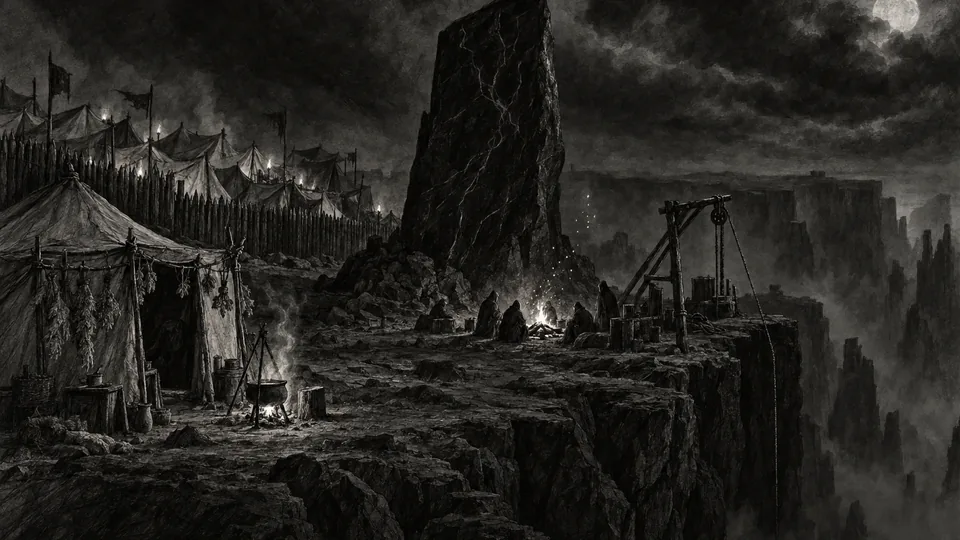
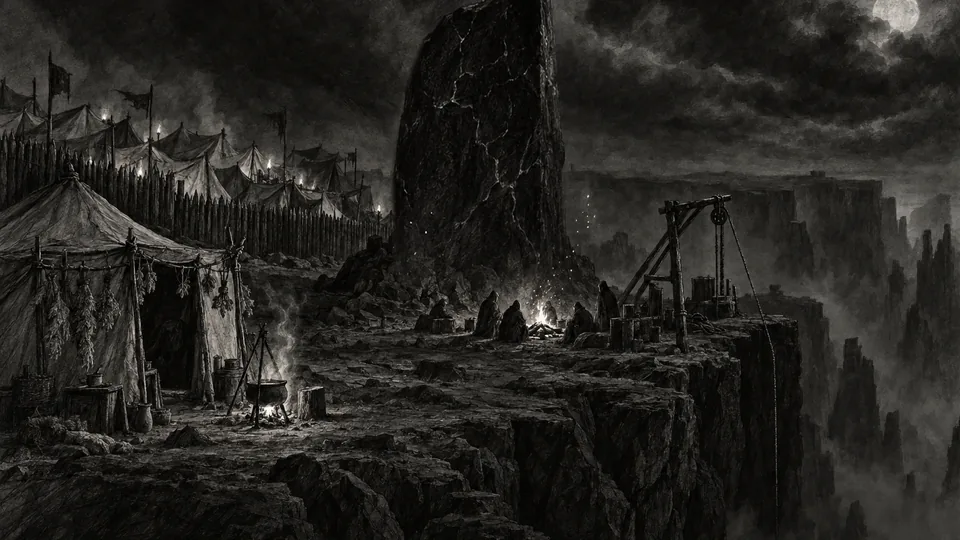
Lagerbilder: einheitlicher Monolith
Claude-Session: https://claude.ai/code/session_011EEWvRSeQeUrKHaWh94RcN

diff --git a/index.html b/index.html
@@ -1096,7 +1096,7 @@ ${glow(180,K.y+6,boss?80:big?60:44,boss?46:big?34:26,big?"#c0352a":c,big?.3:.12)
 ${boss?`<g class="spin" style="transform-origin:180px ${K.y}px"><circle cx="180" cy="${K.y}" r="34" fill="none" stroke="#c0352a" stroke-width=".7" stroke-dasharray="2 6" opacity=".7"/><circle cx="180" cy="${K.y}" r="44" fill="none" stroke="#c0352a" stroke-width=".4" opacity=".35"/></g>`:''}
 <g class="foe-eyes blink ${k==='wing'?'hover':'breathe-e'}">${eye(180-K.gap)}${eye(180+K.gap)}${extra.map(eye).join('')}</g>
 ${particles(PART[ai],10,c,31+ai)}`)}
-const IMG={"l1":{"g":[[41.7,51,5,"o","fl"]],"m":[85.3,5.2,3],"st":[49.5,25],"fog":1},"l2":{"g":[[56,58,5,"o","fl"],[28,53,3,"o","fl"]],"m":[96.4,1.8,3],"st":[52,25],"fog":1},"l3":{"g":[[36.5,54,4.5,"o","fl"],[11.4,53,3,"o","fl"],[66.3,16,1.6,"y","fl"]],"m":[88.2,7,3],"st":[45,28],"fog":1},"l4":{"g":[[34.5,75,4.5,"o","fl"],[39.6,47,1.6,"y","fl"],[54.7,47,1.6,"y","fl"],[77.8,30,1.6,"y","fl"]],"m":[93,4.6,3],"st":[47,17],"fog":1},"h2":{"g":[[27.5,16,3.2,"y","fl"]],"p":"dust"},"h3":{"g":[[20,88,10,"o","fl2"],[8,45,8,"o","slow"]],"p":"embers"},"h4":{"g":[[88.9,64.5,3,"y","fl"]],"p":"snow"},"h5":{"g":[[56.5,8,4,"y","fl"]]},"r2":{"g":[[56.6,64,5,"o","fl"]],"p":"dust"},"r3":{"g":[[58.6,74,7,"o","fl2"]],"p":"embers"},"r4":{"g":[[58.6,66,5,"o","fl"]],"p":"snow"},"r5":{"g":[[50.8,51,3.5,"o","fl"]]},"x11":{"p":"dust"},"v6":{"e":[],"c":"o","g":[[11,26,4,"o","fl2"],[28,42,4,"o","fl2"],[90,30,4,"o","fl2"]]},"v1":{"e":[],"c":"y"},"v2":{"e":[],"c":"o","g":[[18,58,6,"o","fl2"],[82,58,6,"o","fl2"]]},"v3":{"e":[],"c":"o","p":"embers"},"v4":{"e":[],"c":"b","p":"snow"},"v5":{"e":[],"c":"v"},"v7":{"e":[],"c":"b"},"v8":{"e":[],"c":"o","p":"embers"},"v9":{"e":[],"c":"b","p":"snow"},"v10":{"e":[],"c":"y","g":[[51,79,3,"y","fl2"]]},"q1":{"e":[],"c":"y","g":[[46,80,6,"y","slow"]],"p":"dust"},"q2":{"e":[],"c":"o","p":"embers"},"q3":{"e":[],"c":"y","g":[[31,93,5,"o","fl2"]]},"x6":{"e":[],"c":"y","g":[[42,73,10,"o","fl2"]]},"x7":{"e":[],"c":"y","p":"dust"},"x8":{"e":[],"c":"v","g":[[58,15,4,"v","pulse"]]},"x9":{"e":[],"c":"y","p":"dust"},"x10":{"e":[],"c":"y"},"x5":{"e":[],"c":"y","g":[[58,12,10,"y","slow"]],"p":"dust"},"e10":{"e":[],"c":"y","g":[[73,50,6,"o","fl2"]]},"e12":{"e":[],"c":"y"},"e9":{"e":[],"c":"y"},"e11":{"e":[],"c":"o","g":[[70,80,9,"o","fl2"]]},"e13":{"e":[],"c":"y"},"g15":{"e":[[49.7,20.1,1.3],[58.0,22.5,1.3]],"c":"y"},"g16":{"e":[[50.0,24.2,1.0],[56.7,24.2,1.0]],"c":"y","g":[[50,4,6,"o","fl2"]]},"g17":{"e":[[45.7,25.4,1.3],[51.9,28.1,1.3]],"c":"o","p":"embers"},"g18":{"e":[],"c":"b","p":"snow"},"g19":{"e":[[38.9,31.8,1.0],[46.3,31.5,1.0]],"c":"b"},"g20":{"e":[[50.4,6.1,0.9],[56.8,6.1,0.9]],"c":"o","p":"embers"},"g21":{"e":[[55.1,25.5,1.0],[60.5,25.3,1.0]],"c":"b","p":"snow"},"g22":{"e":[],"c":"b","p":"snow"},"g23":{"e":[[47.7,2.4,0.6],[49.0,2.4,0.6]],"c":"b"},"g24":{"e":[],"c":"b"},"g25":{"e":[[53.6,13.3,1.1],[58.6,13.1,1.1]],"c":"b"},"e1":{"e":[],"c":"r"},"e2":{"e":[],"c":"b","g":[[50,68,18,"b","slow"]]},"e3":{"e":[],"c":"y"},"e4":{"e":[],"c":"y"},"e5":{"e":[],"c":"o","g":[[22,77,5,"o","fl2"]]},"e6":{"e":[],"c":"b","g":[[44,45,14,"b","slow"]]},"e7":{"e":[],"c":"y"},"e8":{"e":[],"c":"y"},"g1":{"e":[[49.8,12.5,1.4],[43.7,15.3,1.4]],"c":"y"},"g2":{"e":[[47.3,0.5,0.8],[49.3,0.8,0.8]],"c":"b"},"g3":{"e":[[51.3,18.8,0.9],[45.5,20.4,1.1]],"c":"y"},"g4":{"e":[[47.6,1.9,0.8],[49.5,1.8,0.8]],"c":"p"},"g5":{"e":[[58.4,40.5,0.8],[67.7,40.8,0.8]],"c":"y"},"g6":{"e":[[51.0,6.9,1.1],[49.2,7.1,1.1]],"c":"o","g":[[50,45,25,"o","slow"]]},"g7":{"e":[[47.8,4.9,0.6],[49.9,4.9,0.6]],"c":"b"},"g8":{"e":[[45.5,29.7,0.8],[53.9,30.0,0.8]],"c":"r"},"g9":{"e":[[44.1,9.8,1.9],[60.5,9.9,1.9],[50.5,21.4,4.8],[35.9,23.1,1.9],[65.0,30.1,4.8],[39.2,33.0,1.1],[53.0,36.4,1.9],[67.0,40.4,1.4],[60.3,46.1,2.0],[77.7,59.1,4.8],[55.7,72.8,1.4]],"c":"g"},"g10":{"e":[[45.3,47.2,1.4],[52.7,48.1,1.4]],"c":"y"},"g11":{"e":[[46.3,31.6,1.6],[56.4,33.8,1.6]],"c":"y"},"g12":{"e":[[50.0,0.1,1.2],[52.6,1.0,1.2]],"c":"o"},"b1":{"e":[[50.5,10.4,1.2],[46.7,12.2,1.4]],"c":"y"},"b2":{"e":[[52.2,7.0,1.2],[49.4,7.4,1.2]],"c":"b"},"b3":{"e":[[51.5,2.8,1.4],[48.4,3.2,1.2]],"c":"o","g":[[52,40,25,"o","fl2"]],"p":"embers"},"b4":{"e":[[52.0,3.9,1.6],[49.2,4.2,1.4]],"c":"b","p":"snow"},"b5":{"e":[[52.0,8.5,1.2],[54.2,9.3,1.2],[47.0,9.6,1.2],[48.4,11.2,1.2],[50.0,11.6,1.4],[46.3,13.2,1.2],[54.0,15.1,1.2],[51.1,15.6,1.4],[47.9,17.7,1.2],[51.8,18.0,1.4],[53.9,18.6,1.2],[49.8,21.2,1.2],[46.4,21.4,1.2],[52.3,21.6,1.4],[48.3,22.6,1.2],[53.9,22.9,1.2],[49.0,26.6,1.2],[51.9,28.2,1.2],[53.0,32.1,1.2],[49.4,32.3,1.2],[48.3,35.4,1.2],[51.1,37.1,1.2],[54.8,37.5,1.2],[43.9,38.3,1.2],[48.7,40.7,1.2],[51.1,43.6,1.2],[55.2,44.0,1.2],[45.7,46.5,1.2],[49.6,47.1,1.2],[55.3,48.7,1.2],[51.2,49.4,1.2],[43.0,49.5,1.2],[51.1,53.2,1.4],[56.7,54.2,1.4],[43.9,57.0,1.2],[52.7,59.2,1.2],[48.0,59.5,1.2],[45.9,61.7,1.2],[54.4,65.4,1.2],[44.9,66.0,1.2],[59.1,69.8,1.2],[56.1,71.7,2.2],[39.9,71.8,1.2],[45.1,72.6,1.2],[48.1,72.8,1.2],[50.2,75.0,2.5],[41.6,77.6,1.2],[44.2,78.1,1.2],[46.9,80.5,1.2],[42.7,82.1,1.2],[38.1,82.8,1.1],[52.4,82.9,1.2],[43.9,88.3,1.4],[33.7,89.8,1.2],[55.2,90.7,1.2],[37.4,91.5,1.2],[61.4,95.7,2.5],[57.6,97.2,2.5]],"c":"v"},"t1":{"e":[[53.3,1.0,1.2],[50.4,1.2,1.2]],"c":"y"},"t2":{"e":[[47.0,1.9,1.2],[49.3,2.1,1.2]],"c":"b"},"t3":{"e":[[50.3,12.6,2.0],[43.5,13.6,2.2]],"c":"o","g":[[48,45,22,"o","fl2"]],"p":"embers"},"t4":{"e":[[50.1,12.9,1.6],[48.2,13.1,1.6]],"c":"b","p":"snow"},"t5":{"e":[[50.5,4.0,0.5],[49.0,4.0,0.6]],"c":"v"},"k1":{"e":[[53.7,38.0,1.2],[63.8,38.4,1.2]],"c":"y"},"k2":{"e":[[54.8,7.8,1.4],[60.6,10.9,1.2],[48.9,11.4,1.4],[41.7,12.7,1.2],[44.4,15.9,1.2],[41.3,21.9,1.2],[46.3,22.6,1.2],[64.9,24.9,1.2],[26.5,27.2,1.2],[68.5,30.2,1.2],[76.0,32.6,1.2],[28.5,36.8,1.2],[45.5,37.7,1.4],[20.7,39.3,1.2],[68.3,42.6,1.2],[75.4,43.8,1.2],[81.6,49.0,1.2],[15.7,52.6,1.2],[48.5,55.7,1.2],[27.2,56.3,2.0],[84.3,58.4,1.2],[69.3,59.7,1.4],[44.9,67.7,1.2],[13.2,68.6,1.4],[92.5,69.4,1.2],[21.0,72.8,1.4],[75.8,74.5,1.2],[62.6,80.2,1.2],[19.7,82.8,1.4],[42.0,82.7,1.2]],"c":"g"},"k3":{"e":[[49.7,1.5,1.4],[52.2,1.5,1.4]],"c":"b"},"k4":{"e":[],"c":"p"},"k5":{"e":[[50.6,2.8,1.4],[47.9,3.5,1.4]],"c":"o","g":[[30,55,20,"o","fl2"]],"p":"embers"},"k6":{"e":[[48.2,2.8,1.4],[51.2,2.7,1.2]],"c":"o","g":[[49.5,19,8,"o","fl2"],[50,88,40,"o","fl2"]],"p":"embers"},"k7":{"e":[[43.9,36.6,1.4],[51.3,36.7,1.4]],"c":"b","p":"snow"},"k8":{"e":[[49.0,6.7,1.4],[50.7,6.6,1.4]],"c":"b","p":"snow"},"k9":{"e":[[48.9,2.1,1.2],[50.8,3.3,1.2]],"c":"p"},"k10":{"e":[[51.0,0.2,1.2]],"c":"v"},"o1":{"g":[[28.6,56,7,"o","fl"],[43,30,10,"v","pulse"],[69,8,4.5,"p","slow"]],"m":[68.9,7.8,3.3],"fog":1},"o2":{"g":[[84.6,11,6,"o","fl"],[60,80,15,"p","slow"]],"p":"dust"},"o3":{"g":[[25,80,6,"o","fl"],[81,90,6,"o","fl"],[35,64,4,"o","fl"],[66,70,4,"o","fl"],[50,46,4,"o","fl"]],"p":"dust"},"o4":{"g":[[62,80,18,"o","fl2"],[60,50,12,"o","fl2"],[15,46,4,"o","fl"],[88,30,4,"o","fl"]],"p":"embers"},"o5":{"g":[[45,45,30,"b","slow"]],"p":"snow","fog":1},"o6":{"g":[[70,22,4,"r","eye"]],"p":"dust"},"o7":{"g":[[18,12,6,"o","fl"],[79.5,12,6,"o","fl"],[49.8,56,4,"r","eye"]],"p":"dust"},"o8":{"g":[[51.4,66,9,"o","fl"]]},"o9":{"g":[[60.4,16,6,"o","fl"]],"p":"dust"},"x1":{"s":[[30.4,50.5,1.6],[29.6,55,1.1]]},"x2":{"g":[[83,47,12,"o","fl"],[40,76,10,"o","fl"]]},"x3":{"g":[[50,47,10,"v","pulse"]],"p":"dust"},"x4":{"g":[[17.6,44.5,5,"o","fl"]]},"g14":{"e":[[54.2,52,1.6],[66.3,52,1.6]],"c":"o","g":[[45,35,30,"o","fl2"]],"p":"embers"},"g13":{"e":[[59.8,37.2,1.3],[68.6,37.5,1.3]],"c":"y"}};
+const IMG={"l1":{"g":[[41.7,51,5,"o","fl"]],"m":[85.3,5.2,3],"st":[49.5,25],"fog":1},"l2":{"g":[[56,58,5,"o","fl"],[28,53,3,"o","fl"]],"m":[96.4,1.8,3],"st":[50,24.5],"fog":1},"l3":{"g":[[36.5,54,4.5,"o","fl"],[11.4,53,3,"o","fl"],[66.3,16,1.6,"y","fl"]],"m":[88.2,7,3],"st":[45,23],"fog":1},"l4":{"g":[[34.5,75,4.5,"o","fl"],[39.6,47,1.6,"y","fl"],[54.7,47,1.6,"y","fl"],[77.8,30,1.6,"y","fl"]],"m":[93,4.6,3],"st":[50.3,15],"fog":1},"h2":{"g":[[27.5,16,3.2,"y","fl"]],"p":"dust"},"h3":{"g":[[20,88,10,"o","fl2"],[8,45,8,"o","slow"]],"p":"embers"},"h4":{"g":[[88.9,64.5,3,"y","fl"]],"p":"snow"},"h5":{"g":[[56.5,8,4,"y","fl"]]},"r2":{"g":[[56.6,64,5,"o","fl"]],"p":"dust"},"r3":{"g":[[58.6,74,7,"o","fl2"]],"p":"embers"},"r4":{"g":[[58.6,66,5,"o","fl"]],"p":"snow"},"r5":{"g":[[50.8,51,3.5,"o","fl"]]},"x11":{"p":"dust"},"v6":{"e":[],"c":"o","g":[[11,26,4,"o","fl2"],[28,42,4,"o","fl2"],[90,30,4,"o","fl2"]]},"v1":{"e":[],"c":"y"},"v2":{"e":[],"c":"o","g":[[18,58,6,"o","fl2"],[82,58,6,"o","fl2"]]},"v3":{"e":[],"c":"o","p":"embers"},"v4":{"e":[],"c":"b","p":"snow"},"v5":{"e":[],"c":"v"},"v7":{"e":[],"c":"b"},"v8":{"e":[],"c":"o","p":"embers"},"v9":{"e":[],"c":"b","p":"snow"},"v10":{"e":[],"c":"y","g":[[51,79,3,"y","fl2"]]},"q1":{"e":[],"c":"y","g":[[46,80,6,"y","slow"]],"p":"dust"},"q2":{"e":[],"c":"o","p":"embers"},"q3":{"e":[],"c":"y","g":[[31,93,5,"o","fl2"]]},"x6":{"e":[],"c":"y","g":[[42,73,10,"o","fl2"]]},"x7":{"e":[],"c":"y","p":"dust"},"x8":{"e":[],"c":"v","g":[[58,15,4,"v","pulse"]]},"x9":{"e":[],"c":"y","p":"dust"},"x10":{"e":[],"c":"y"},"x5":{"e":[],"c":"y","g":[[58,12,10,"y","slow"]],"p":"dust"},"e10":{"e":[],"c":"y","g":[[73,50,6,"o","fl2"]]},"e12":{"e":[],"c":"y"},"e9":{"e":[],"c":"y"},"e11":{"e":[],"c":"o","g":[[70,80,9,"o","fl2"]]},"e13":{"e":[],"c":"y"},"g15":{"e":[[49.7,20.1,1.3],[58.0,22.5,1.3]],"c":"y"},"g16":{"e":[[50.0,24.2,1.0],[56.7,24.2,1.0]],"c":"y","g":[[50,4,6,"o","fl2"]]},"g17":{"e":[[45.7,25.4,1.3],[51.9,28.1,1.3]],"c":"o","p":"embers"},"g18":{"e":[],"c":"b","p":"snow"},"g19":{"e":[[38.9,31.8,1.0],[46.3,31.5,1.0]],"c":"b"},"g20":{"e":[[50.4,6.1,0.9],[56.8,6.1,0.9]],"c":"o","p":"embers"},"g21":{"e":[[55.1,25.5,1.0],[60.5,25.3,1.0]],"c":"b","p":"snow"},"g22":{"e":[],"c":"b","p":"snow"},"g23":{"e":[[47.7,2.4,0.6],[49.0,2.4,0.6]],"c":"b"},"g24":{"e":[],"c":"b"},"g25":{"e":[[53.6,13.3,1.1],[58.6,13.1,1.1]],"c":"b"},"e1":{"e":[],"c":"r"},"e2":{"e":[],"c":"b","g":[[50,68,18,"b","slow"]]},"e3":{"e":[],"c":"y"},"e4":{"e":[],"c":"y"},"e5":{"e":[],"c":"o","g":[[22,77,5,"o","fl2"]]},"e6":{"e":[],"c":"b","g":[[44,45,14,"b","slow"]]},"e7":{"e":[],"c":"y"},"e8":{"e":[],"c":"y"},"g1":{"e":[[49.8,12.5,1.4],[43.7,15.3,1.4]],"c":"y"},"g2":{"e":[[47.3,0.5,0.8],[49.3,0.8,0.8]],"c":"b"},"g3":{"e":[[51.3,18.8,0.9],[45.5,20.4,1.1]],"c":"y"},"g4":{"e":[[47.6,1.9,0.8],[49.5,1.8,0.8]],"c":"p"},"g5":{"e":[[58.4,40.5,0.8],[67.7,40.8,0.8]],"c":"y"},"g6":{"e":[[51.0,6.9,1.1],[49.2,7.1,1.1]],"c":"o","g":[[50,45,25,"o","slow"]]},"g7":{"e":[[47.8,4.9,0.6],[49.9,4.9,0.6]],"c":"b"},"g8":{"e":[[45.5,29.7,0.8],[53.9,30.0,0.8]],"c":"r"},"g9":{"e":[[44.1,9.8,1.9],[60.5,9.9,1.9],[50.5,21.4,4.8],[35.9,23.1,1.9],[65.0,30.1,4.8],[39.2,33.0,1.1],[53.0,36.4,1.9],[67.0,40.4,1.4],[60.3,46.1,2.0],[77.7,59.1,4.8],[55.7,72.8,1.4]],"c":"g"},"g10":{"e":[[45.3,47.2,1.4],[52.7,48.1,1.4]],"c":"y"},"g11":{"e":[[46.3,31.6,1.6],[56.4,33.8,1.6]],"c":"y"},"g12":{"e":[[50.0,0.1,1.2],[52.6,1.0,1.2]],"c":"o"},"b1":{"e":[[50.5,10.4,1.2],[46.7,12.2,1.4]],"c":"y"},"b2":{"e":[[52.2,7.0,1.2],[49.4,7.4,1.2]],"c":"b"},"b3":{"e":[[51.5,2.8,1.4],[48.4,3.2,1.2]],"c":"o","g":[[52,40,25,"o","fl2"]],"p":"embers"},"b4":{"e":[[52.0,3.9,1.6],[49.2,4.2,1.4]],"c":"b","p":"snow"},"b5":{"e":[[52.0,8.5,1.2],[54.2,9.3,1.2],[47.0,9.6,1.2],[48.4,11.2,1.2],[50.0,11.6,1.4],[46.3,13.2,1.2],[54.0,15.1,1.2],[51.1,15.6,1.4],[47.9,17.7,1.2],[51.8,18.0,1.4],[53.9,18.6,1.2],[49.8,21.2,1.2],[46.4,21.4,1.2],[52.3,21.6,1.4],[48.3,22.6,1.2],[53.9,22.9,1.2],[49.0,26.6,1.2],[51.9,28.2,1.2],[53.0,32.1,1.2],[49.4,32.3,1.2],[48.3,35.4,1.2],[51.1,37.1,1.2],[54.8,37.5,1.2],[43.9,38.3,1.2],[48.7,40.7,1.2],[51.1,43.6,1.2],[55.2,44.0,1.2],[45.7,46.5,1.2],[49.6,47.1,1.2],[55.3,48.7,1.2],[51.2,49.4,1.2],[43.0,49.5,1.2],[51.1,53.2,1.4],[56.7,54.2,1.4],[43.9,57.0,1.2],[52.7,59.2,1.2],[48.0,59.5,1.2],[45.9,61.7,1.2],[54.4,65.4,1.2],[44.9,66.0,1.2],[59.1,69.8,1.2],[56.1,71.7,2.2],[39.9,71.8,1.2],[45.1,72.6,1.2],[48.1,72.8,1.2],[50.2,75.0,2.5],[41.6,77.6,1.2],[44.2,78.1,1.2],[46.9,80.5,1.2],[42.7,82.1,1.2],[38.1,82.8,1.1],[52.4,82.9,1.2],[43.9,88.3,1.4],[33.7,89.8,1.2],[55.2,90.7,1.2],[37.4,91.5,1.2],[61.4,95.7,2.5],[57.6,97.2,2.5]],"c":"v"},"t1":{"e":[[53.3,1.0,1.2],[50.4,1.2,1.2]],"c":"y"},"t2":{"e":[[47.0,1.9,1.2],[49.3,2.1,1.2]],"c":"b"},"t3":{"e":[[50.3,12.6,2.0],[43.5,13.6,2.2]],"c":"o","g":[[48,45,22,"o","fl2"]],"p":"embers"},"t4":{"e":[[50.1,12.9,1.6],[48.2,13.1,1.6]],"c":"b","p":"snow"},"t5":{"e":[[50.5,4.0,0.5],[49.0,4.0,0.6]],"c":"v"},"k1":{"e":[[53.7,38.0,1.2],[63.8,38.4,1.2]],"c":"y"},"k2":{"e":[[54.8,7.8,1.4],[60.6,10.9,1.2],[48.9,11.4,1.4],[41.7,12.7,1.2],[44.4,15.9,1.2],[41.3,21.9,1.2],[46.3,22.6,1.2],[64.9,24.9,1.2],[26.5,27.2,1.2],[68.5,30.2,1.2],[76.0,32.6,1.2],[28.5,36.8,1.2],[45.5,37.7,1.4],[20.7,39.3,1.2],[68.3,42.6,1.2],[75.4,43.8,1.2],[81.6,49.0,1.2],[15.7,52.6,1.2],[48.5,55.7,1.2],[27.2,56.3,2.0],[84.3,58.4,1.2],[69.3,59.7,1.4],[44.9,67.7,1.2],[13.2,68.6,1.4],[92.5,69.4,1.2],[21.0,72.8,1.4],[75.8,74.5,1.2],[62.6,80.2,1.2],[19.7,82.8,1.4],[42.0,82.7,1.2]],"c":"g"},"k3":{"e":[[49.7,1.5,1.4],[52.2,1.5,1.4]],"c":"b"},"k4":{"e":[],"c":"p"},"k5":{"e":[[50.6,2.8,1.4],[47.9,3.5,1.4]],"c":"o","g":[[30,55,20,"o","fl2"]],"p":"embers"},"k6":{"e":[[48.2,2.8,1.4],[51.2,2.7,1.2]],"c":"o","g":[[49.5,19,8,"o","fl2"],[50,88,40,"o","fl2"]],"p":"embers"},"k7":{"e":[[43.9,36.6,1.4],[51.3,36.7,1.4]],"c":"b","p":"snow"},"k8":{"e":[[49.0,6.7,1.4],[50.7,6.6,1.4]],"c":"b","p":"snow"},"k9":{"e":[[48.9,2.1,1.2],[50.8,3.3,1.2]],"c":"p"},"k10":{"e":[[51.0,0.2,1.2]],"c":"v"},"o1":{"g":[[28.6,56,7,"o","fl"],[43,30,10,"v","pulse"],[69,8,4.5,"p","slow"]],"m":[68.9,7.8,3.3],"fog":1},"o2":{"g":[[84.6,11,6,"o","fl"],[60,80,15,"p","slow"]],"p":"dust"},"o3":{"g":[[25,80,6,"o","fl"],[81,90,6,"o","fl"],[35,64,4,"o","fl"],[66,70,4,"o","fl"],[50,46,4,"o","fl"]],"p":"dust"},"o4":{"g":[[62,80,18,"o","fl2"],[60,50,12,"o","fl2"],[15,46,4,"o","fl"],[88,30,4,"o","fl"]],"p":"embers"},"o5":{"g":[[45,45,30,"b","slow"]],"p":"snow","fog":1},"o6":{"g":[[70,22,4,"r","eye"]],"p":"dust"},"o7":{"g":[[18,12,6,"o","fl"],[79.5,12,6,"o","fl"],[49.8,56,4,"r","eye"]],"p":"dust"},"o8":{"g":[[51.4,66,9,"o","fl"]]},"o9":{"g":[[60.4,16,6,"o","fl"]],"p":"dust"},"x1":{"s":[[30.4,50.5,1.6],[29.6,55,1.1]]},"x2":{"g":[[83,47,12,"o","fl"],[40,76,10,"o","fl"]]},"x3":{"g":[[50,47,10,"v","pulse"]],"p":"dust"},"x4":{"g":[[17.6,44.5,5,"o","fl"]]},"g14":{"e":[[54.2,52,1.6],[66.3,52,1.6]],"c":"o","g":[[45,35,30,"o","fl2"]],"p":"embers"},"g13":{"e":[[59.8,37.2,1.3],[68.6,37.5,1.3]],"c":"y"}};
 const FOE={Goblin:'g1',Kobold:'g15',Skelettkrieger:'g2',Grabwächter:'g2',Abgrundritter:'g2',Ghul:'g3','Erwachter Toter':'g3',Aschenkultist:'g4',Eishexe:'k8',Riesenratte:'g13',Knochenhund:'g19',Höllenhund:'g20',Eiswolf:'g21',Salamander:'g14',Lavagolem:'g6',Frostriese:'g18',Banshee:'k4',Reifgeist:'g22',Leerenwandler:'g7',Seelenfresser:'g25',Gesichtsloser:'g24',Schatten:'g23','Rachsüchtiger Geist':'g7','Höhlenfledermaus':'g8',Feuerimp:'g17',Schleim:'g9',Gletscherwyrm:'g10',Sternenfresser:'g10',Mimic:'g11',
 'Goblinhäuptling Krag':'b1','Der Knochenkönig':'b2','Ignaroth, Herr der Glut':'b3','Hrimfang der Ewige':'b4','Das Namenlose':'b5','Brakk, der Grubenoger':'t1','Morvane, die Grabhüterin':'t2','Die Aschenbrut':'t3','Skadi, die Eiswächterin':'t4','Der Leerenhüter':'t5'};
 const BKEY={grimmzahn:'k1',mutter:'k2',aldric:'k3',weinende:'k4',ossa:'k5',schlacke:'k6',weissfell:'k7',ylva:'k8',zaehlende:'k9',kaelen:'k10'};

diff --git a/sw.js b/sw.js
@@ -1,4 +1,4 @@
-const V='riss-1795642486';
+const V='riss-1795642893';
 const CORE=['./','index.html','manifest.webmanifest','icons/icon-192.png','icons/icon-512.png','img/b1.webp','img/b2.webp','img/b3.webp','img/b4.webp','img/b5.webp','img/e1.webp','img/e10.webp','img/e11.webp','img/e12.webp','img/e13.webp','img/e2.webp','img/e3.webp','img/e4.webp','img/e5.webp','img/e6.webp','img/e7.webp','img/e8.webp','img/e9.webp','img/g1.webp','img/g10.webp','img/g11.webp','img/g12.webp','img/g13.webp','img/g14.webp','img/g15.webp','img/g16.webp','img/g17.webp','img/g18.webp','img/g19.webp','img/g2.webp','img/g20.webp','img/g21.webp','img/g22.webp','img/g23.webp','img/g24.webp','img/g25.webp','img/g3.webp','img/g4.webp','img/g5.webp','img/g6.webp','img/g7.webp','img/g8.webp','img/g9.webp','img/h2.webp','img/h3.webp','img/h4.webp','img/h5.webp','img/k1.webp','img/k10.webp','img/k2.webp','img/k3.webp','img/k4.webp','img/k5.webp','img/k6.webp','img/k7.webp','img/k8.webp','img/k9.webp','img/l1.webp','img/l2.webp','img/l3.webp','img/l4.webp','img/o1.webp','img/o2.webp','img/o3.webp','img/o4.webp','img/o5.webp','img/o6.webp','img/o7.webp','img/o8.webp','img/o9.webp','img/q1.webp','img/q2.webp','img/q3.webp','img/r2.webp','img/r3.webp','img/r4.webp','img/r5.webp','img/t1.webp','img/t2.webp','img/t3.webp','img/t4.webp','img/t5.webp','img/v1.webp','img/v10.webp','img/v2.webp','img/v3.webp','img/v4.webp','img/v5.webp','img/v6.webp','img/v7.webp','img/v8.webp','img/v9.webp','img/x1.webp','img/x10.webp','img/x11.webp','img/x2.webp','img/x3.webp','img/x4.webp','img/x5.webp','img/x6.webp','img/x7.webp','img/x8.webp','img/x9.webp','mus/fight.mp3','mus/camp.mp3','mus/fire.mp3'];
 self.addEventListener('install',e=>{e.waitUntil(caches.open(V).then(c=>c.addAll(CORE)).then(()=>self.skipWaiting()))});
 self.addEventListener('activate',e=>{e.waitUntil(caches.keys().then(ks=>Promise.all(ks.filter(k=>k!==V).map(k=>caches.delete(k)))).then(()=>self.clients.claim()))});
